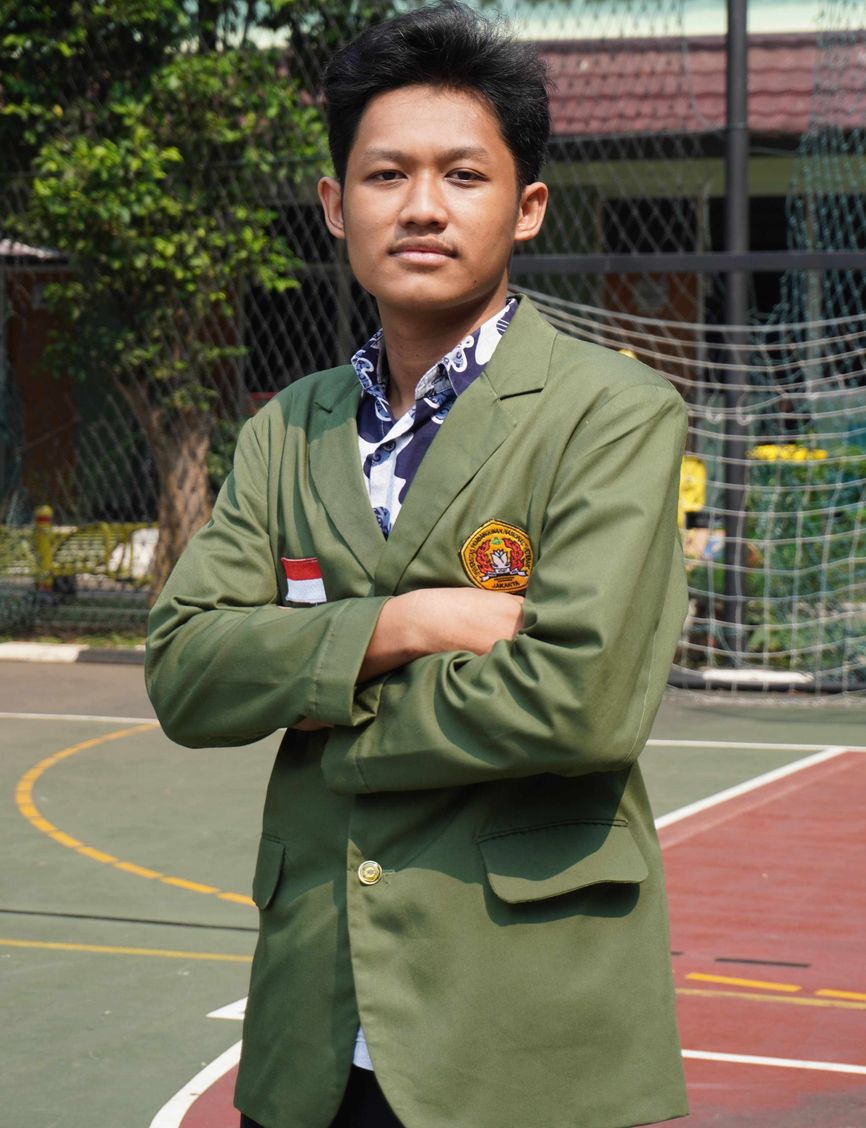
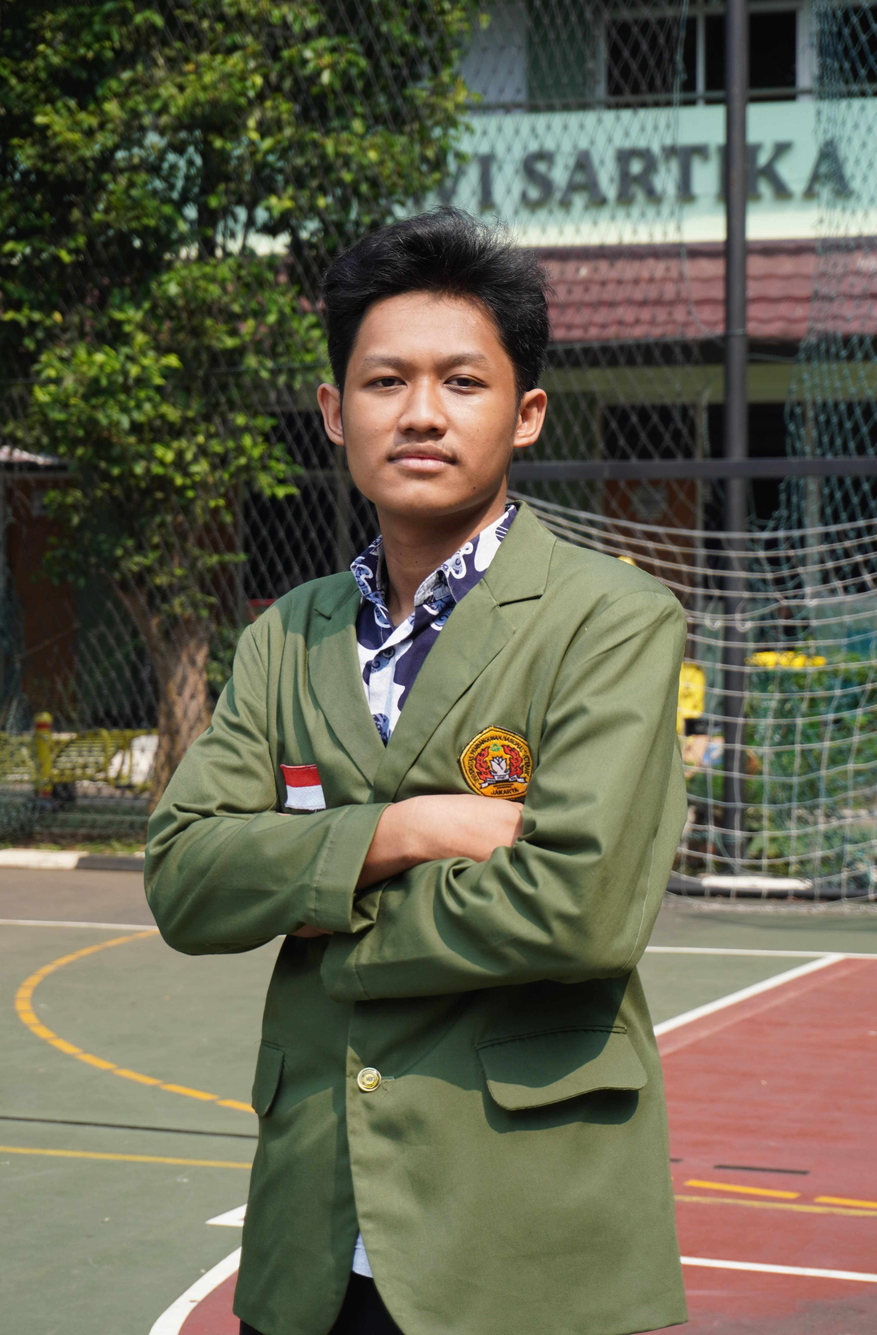
Kecilin font nama

diff --git a/index.html b/index.html
@@ -155,12 +155,12 @@
 
         .hero-content {
             flex: 1;
-            padding-right: 4rem; /* Ditambah biar jarak teks ke foto lebih lega */
+            padding-right: 2rem; /* Ditambah biar jarak teks ke foto lebih lega */
         }
 
         /* UKURAN TEKS HERO DIBESARKAN */
         .hero-content h1 {
-            font-size: 3.8rem; /* Awalnya 3.2rem */
+            font-size: 3rem;
             line-height: 1.2;
             margin-bottom: 15px;
             color: var(--primary-color);
@@ -446,7 +446,7 @@
     <!-- Navigasi -->
     <header>
         <div class="container">
-            <h3>M. Haikal S.</h3>
+            <h3>Muhammad. Haikal. Sulaeman.</h3>
             <nav>
                 <ul>
                     <li><a href="#hero">Beranda</a></li>
